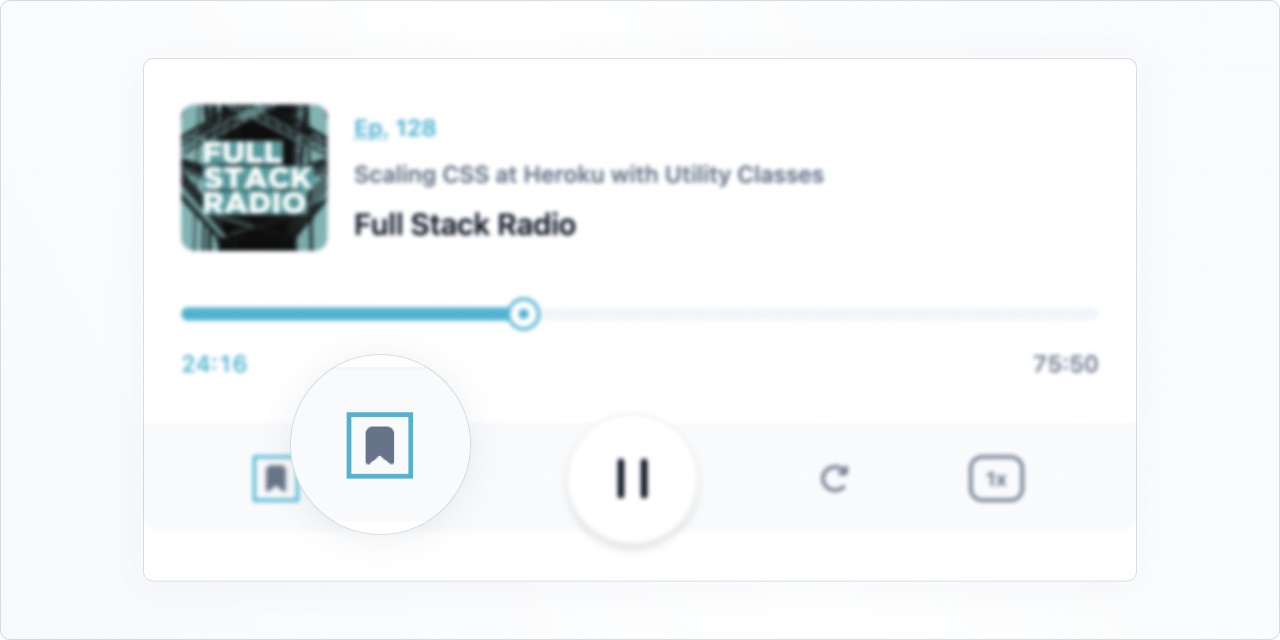
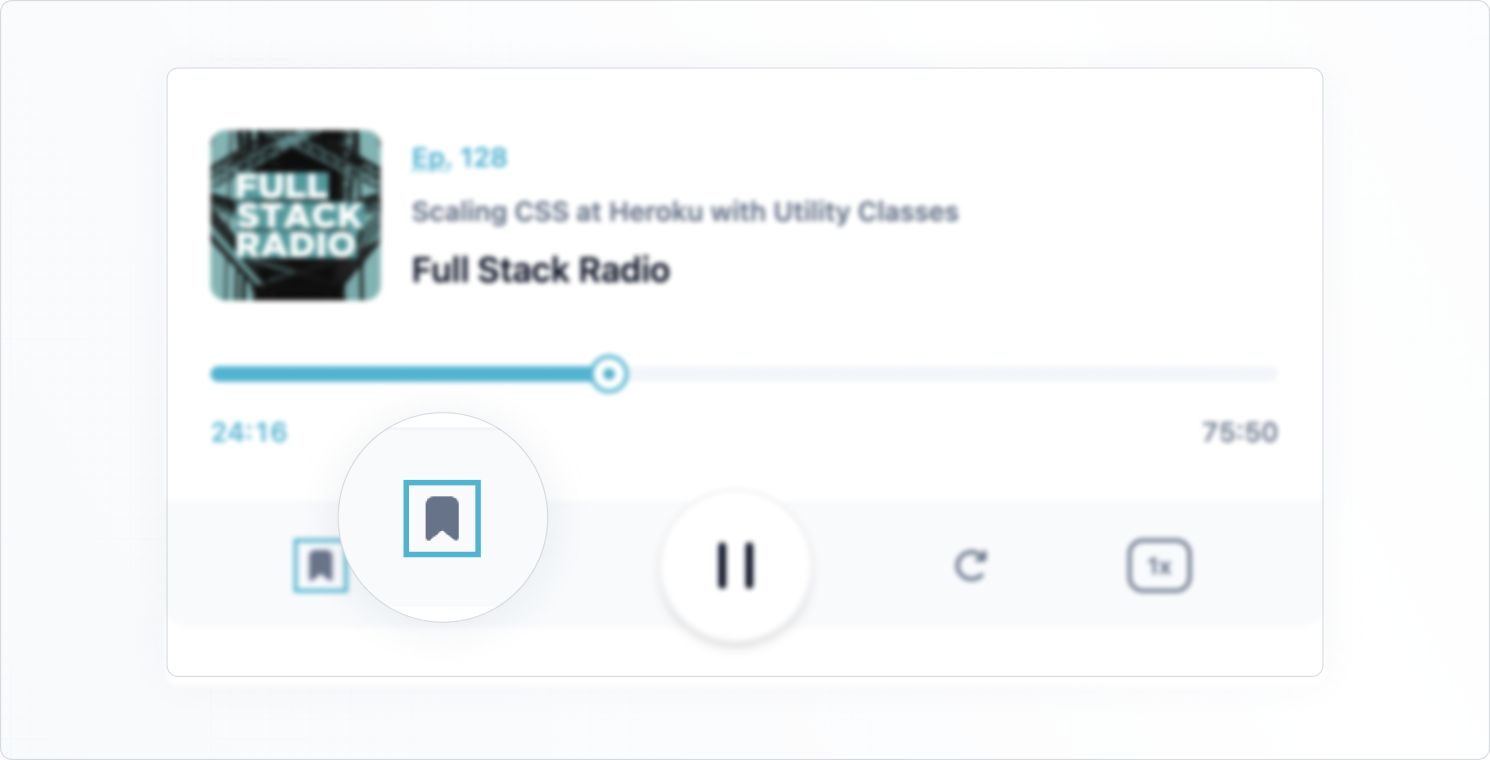
[docs] Test new image best practice
https://www.notion.so/mui-org/Documentation-5a1686758f4f4267989b67a1c2c270da

diff --git a/docs/data/base/guides/working-with-tailwind-css/working-with-tailwind-css.md b/docs/data/base/guides/working-with-tailwind-css/working-with-tailwind-css.md
@@ -379,7 +379,7 @@ We'll create a custom `Button` component that uses the `focusVisible` state from
 
 This is what it'll look like:
 
-<img src="/static/base/with-tailwind-css/player-buttons.png" alt="Screenshot of a button used as example in the guide, designed by the Tailwind Labs team" style="width: 796px; margin-top: 8px; margin-bottom: 8px;" />
+<img src="/static/base/with-tailwind-css/player-buttons.png" alt="Screenshot of a button used as example in the guide, designed by the Tailwind Labs team" style="width: 745px; margin-top: 8px; margin-bottom: 8px;" />
 
 Create a `Button.tsx` file and copy the following code:
 
